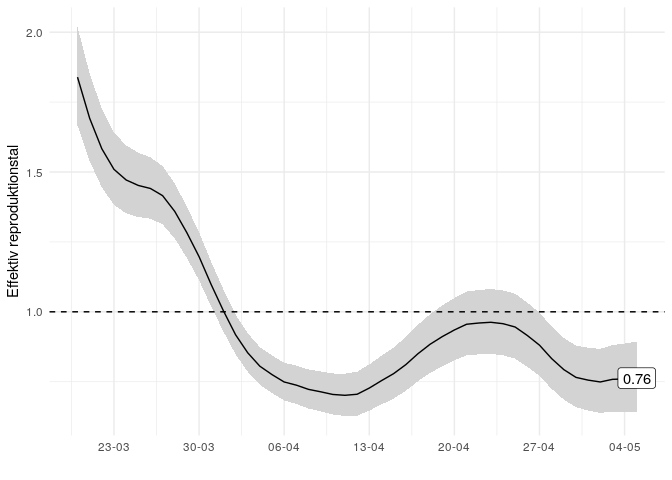
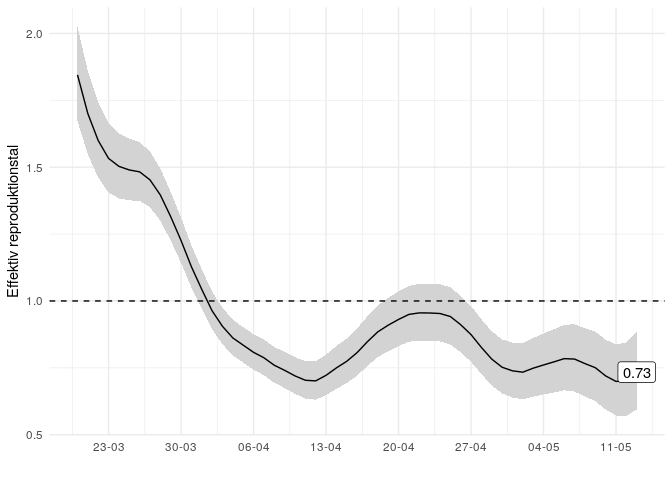
I had to change the README since SSI changed the data they provide, so I had to update accordingly.

diff --git a/README.md b/README.md
@@ -138,44 +138,42 @@ newly <- newly_raw %>%
 
 # Show first three and last three rows
 newly %>% slice(1:3,((n()-2):n()))
-#> # A tibble: 6 x 3
-#>   date       newly_hospitalized rollingmean
-#>   <date>                  <int>       <dbl>
-#> 1 2020-02-27                  0         0  
-#> 2 2020-02-28                  0         0.2
-#> 3 2020-02-29                  0         0.2
-#> 4 2020-05-03                 13        14.4
-#> 5 2020-05-04                 11        12.4
-#> 6 2020-05-05                 12        10.8
+#> # A tibble: 6 x 8
+#>   date       newly_hospitali… hovedstaden sjælland syddanmark midtjylland
+#>   <date>                <int>       <int>    <int>      <int>       <int>
+#> 1 2020-03-03                1           1        0          0           0
+#> 2 2020-03-04                0           0        0          0           0
+#> 3 2020-03-05                1           1        0          0           0
+#> 4 2020-05-11                8           6        1          1           0
+#> 5 2020-05-12                7           6        0          0           1
+#> 6 2020-05-13                6           4        2          0           0
+#> # … with 2 more variables: nordjylland <int>, rollingmean <dbl>
 ```
 
 ``` r
 # Get current total hospitalized
-url_hosp <- "https://api.covid19data.dk/ssi_hospitalized"
+url_cases <- "https://api.covid19data.dk/ssi_cases"
 
-hosp_raw <- jsonlite::fromJSON(url_hosp)
+cases_raw <- jsonlite::fromJSON(url_cases) %>% as_tibble()
 
-hosp <- hosp_raw %>% 
+hosp <- cases_raw %>% 
   mutate(timestamp = timestamp %>% lubridate::ymd_hm(),
          date = timestamp %>% as.Date()) %>%
-  group_by(date) %>%
-  summarise_at(c("hospitalized", "critical", "respirator"), sum, na.rm  = TRUE) %>%
-  mutate(hospitalized_rm = rollmean(hospitalized, 5),
-         critical_rm = rollmean(critical, 5),
-         respirator_rm = rollmean(respirator, 5))
+  select(date, hospitalized = hospitalized_today) %>%
+  drop_na() %>%
+  mutate(hospitalized_rm = rollmean(hospitalized, 5))
 
 # Show first three and last three rows
 hosp %>% slice(1:3,((n()-2):n()))
-#> # A tibble: 6 x 7
-#>   date       hospitalized critical respirator hospitalized_rm critical_rm
-#>   <date>            <int>    <int>      <int>           <dbl>       <dbl>
-#> 1 2020-03-17           82       18          0             NA         NA  
-#> 2 2020-03-18          129       24          0             NA         NA  
-#> 3 2020-03-19          153       30         27            151.        30.2
-#> 4 2020-05-10          196       40         33            194         41.4
-#> 5 2020-05-11          198       43         33             NA         NA  
-#> 6 2020-05-12          177       43         32             NA         NA  
-#> # … with 1 more variable: respirator_rm <dbl>
+#> # A tibble: 6 x 3
+#>   date       hospitalized hospitalized_rm
+#>   <date>            <int>           <dbl>
+#> 1 2020-03-17           82             NA 
+#> 2 2020-03-18          129             NA 
+#> 3 2020-03-19          153            151.
+#> 4 2020-05-19          141            133.
+#> 5 2020-05-20          127             NA 
+#> 6 2020-05-21          122             NA
 ```
 
 #### Forudsig smittetrykket
@@ -238,20 +236,20 @@ R_estim <- estimate_R(confirmed_cases,
 
 # Print oout the R table for inspection
 R_estim$R %>%  as_tibble()
-#> # A tibble: 62 x 11
+#> # A tibble: 65 x 11
 #>    t_start t_end `Mean(R)` `Std(R)` `Quantile.0.025… `Quantile.0.05(…
 #>      <dbl> <dbl>     <dbl>    <dbl>            <dbl>            <dbl>
-#>  1       2     8      4.71    2.07              1.57             1.90
-#>  2       3     9      4.03    1.57              1.57             1.84
-#>  3       4    10      4.17    1.33              1.98             2.24
-#>  4       5    11      4.67    1.18              2.65             2.91
-#>  5       6    12      4.57    0.962             2.89             3.11
-#>  6       7    13      4.39    0.765             3.02             3.22
-#>  7       8    14      4.17    0.606             3.06             3.22
-#>  8       9    15      3.82    0.476             2.94             3.07
-#>  9      10    16      3.45    0.375             2.75             2.86
-#> 10      11    17      3.17    0.302             2.61             2.69
-#> # … with 52 more rows, and 5 more variables: `Quantile.0.25(R)` <dbl>,
+#>  1       2     8      4.92    0.856             3.38             3.60
+#>  2       3     9      4.43    0.643             3.26             3.43
+#>  3       4    10      3.95    0.490             3.05             3.18
+#>  4       5    11      3.51    0.380             2.81             2.91
+#>  5       6    12      3.21    0.304             2.64             2.72
+#>  6       7    13      2.93    0.247             2.46             2.53
+#>  7       8    14      2.67    0.204             2.29             2.35
+#>  8       9    15      2.45    0.171             2.13             2.18
+#>  9      10    16      2.26    0.145             1.98             2.02
+#> 10      11    17      2.05    0.124             1.81             1.85
+#> # … with 55 more rows, and 5 more variables: `Quantile.0.25(R)` <dbl>,
 #> #   `Median(R)` <dbl>, `Quantile.0.75(R)` <dbl>, `Quantile.0.95(R)` <dbl>,
 #> #   `Quantile.0.975(R)` <dbl>
 ```
@@ -286,7 +284,7 @@ pd %>%
 
 ![](README_files/figure-gfm/estimate_r_plot-1.png)<!-- -->
 
-Som du kan se, så ser smittetrykket ud til nu at være 0.76 (0.64 ;
+Som du kan se, så ser smittetrykket ud til nu at være 0.73 (0.59 ;
 0.89). Det er det smittetryk jeg kan bruge til at fremskrive de danske
 Corona tal med og derved lave en forudsigelse.
 
@@ -463,16 +461,16 @@ sir_out_df
 #> # A tibble: 60 x 6
 #>    date        time        S     I     H     R
 #>    <date>     <dbl>    <dbl> <dbl> <dbl> <dbl>
-#>  1 2020-04-27     1 5800000  3539.  287.    0 
-#>  2 2020-04-28     2 5799472. 3380.  277.  697.
-#>  3 2020-04-29     3 5798968. 3229.  267. 1362.
-#>  4 2020-04-30     4 5798487. 3084.  258. 1998.
-#>  5 2020-05-01     5 5798027. 2945.  248. 2606.
-#>  6 2020-05-02     6 5797588. 2813.  239. 3186.
-#>  7 2020-05-03     7 5797169. 2686.  230. 3741.
-#>  8 2020-05-04     8 5796769. 2565.  222. 4270.
-#>  9 2020-05-05     9 5796386. 2450.  214. 4776.
-#> 10 2020-05-06    10 5796021. 2340.  206. 5260.
+#>  1 2020-05-05     1 5800000  3474.  226.    0 
+#>  2 2020-05-06     2 5799503. 3299.  220.  678.
+#>  3 2020-05-07     3 5799031. 3133.  213. 1323.
+#>  4 2020-05-08     4 5798583. 2975.  207. 1935.
+#>  5 2020-05-09     5 5798157. 2825.  201. 2517.
+#>  6 2020-05-10     6 5797753. 2682.  194. 3070.
+#>  7 2020-05-11     7 5797370. 2547.  188. 3595.
+#>  8 2020-05-12     8 5797006. 2419.  182. 4094.
+#>  9 2020-05-13     9 5796660. 2296.  176. 4568.
+#> 10 2020-05-14    10 5796331. 2181.  170. 5018.
 #> # … with 50 more rows
 ```
 
@@ -559,8 +557,8 @@ Denne hjælper funktion kan jeg så fodre til `optim` funktionen sammen
 med forskellige tal. Jeg fortæller optimeringsfunktionen at den skal
 optimere ved at ændre vores tre parametre inden for en defineret ramme:
 
-1)  Smittetrykket (R): start med 0.7628818, min er 0.6410602, max er
-    0.8934959
+1)  Smittetrykket (R): start med 0.7340157, min er 0.5945764, max er
+    0.8856116
 2)  Tiden man er syg: start ved 5 dage, min er 2 dage, max er 8 dage
 3)  Tiden man er indlagt på hospitalet: start ved 15 dage, min er 12
     dage, max er 18 dage
@@ -589,12 +587,12 @@ new_parms <- Opt$par
 names(new_parms) <- c("days_sick", "R0", "days_in_hosp")
 new_parms
 #>    days_sick           R0 days_in_hosp 
-#>    5.7486755    0.8934959   15.5647809
+#>    3.9179782    0.8351483   12.9188671
 ```
 
 Det bedste fit ser ud til at være med en gennemsnitlig indlæggelsestid
-på 15.5647809, et smittetryk på 0.8934959 og en sygeperiode på
-5.7486755 dage.
+på 12.9188671, et smittetryk på 0.8351483 og en sygeperiode på
+3.9179782 dage.
 
 Nu kører jeg min Corona model igen, men med det nye tal for
 indlæggelsesdage og smittetryk.
@@ -673,8 +671,8 @@ ggplot() +
 
 ![](README_files/figure-gfm/plot_inf-1.png)<!-- -->
 
-Ifølge denne beregning er der ca. 2668 syge danskere lige nu (skrivende
-stund: 2020-05-13) eller ca. 0.046 % af befolkningen - og tallet er
+Ifølge denne beregning er der ca. 1842 syge danskere lige nu (skrivende
+stund: 2020-05-21) eller ca. 0.0317586 % af befolkningen - og tallet er
 faldende.
 
 #### Konklusion
